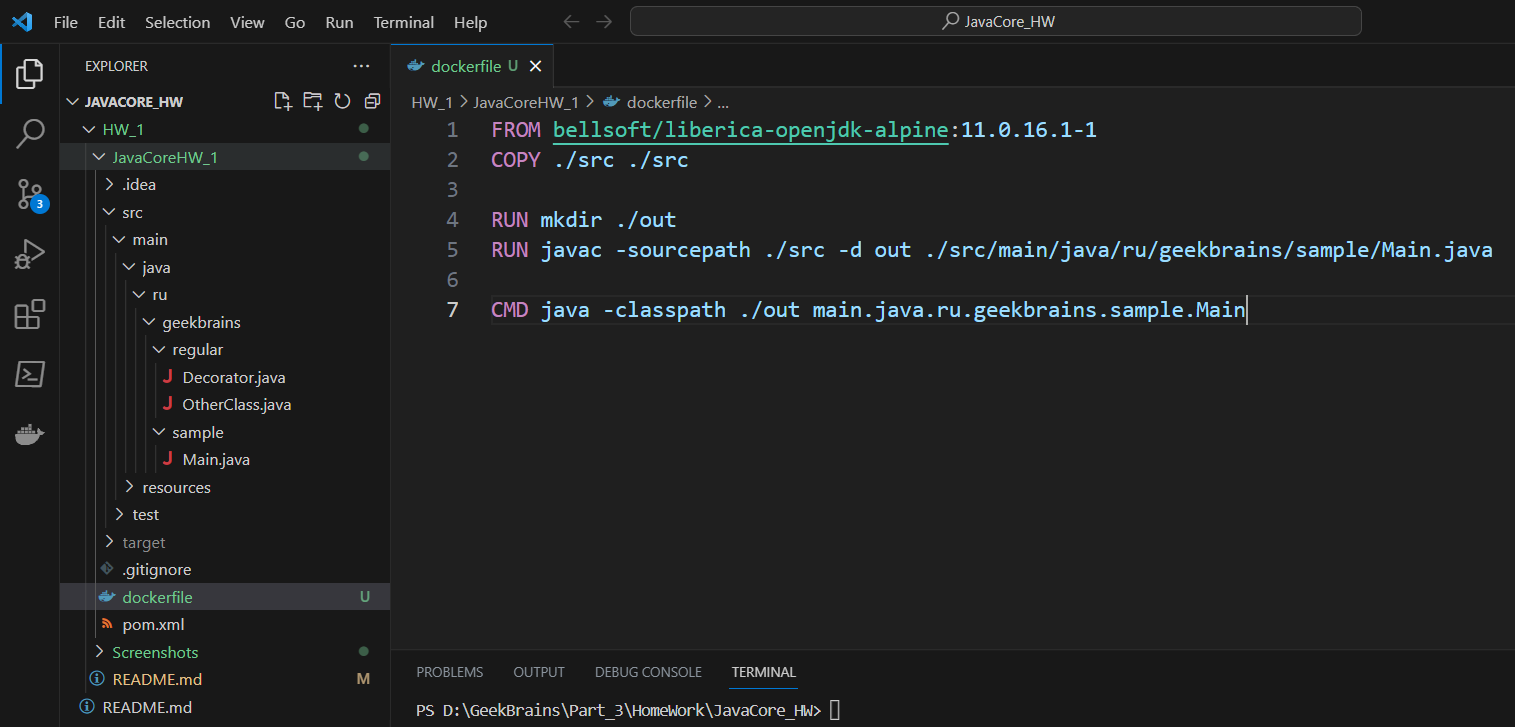
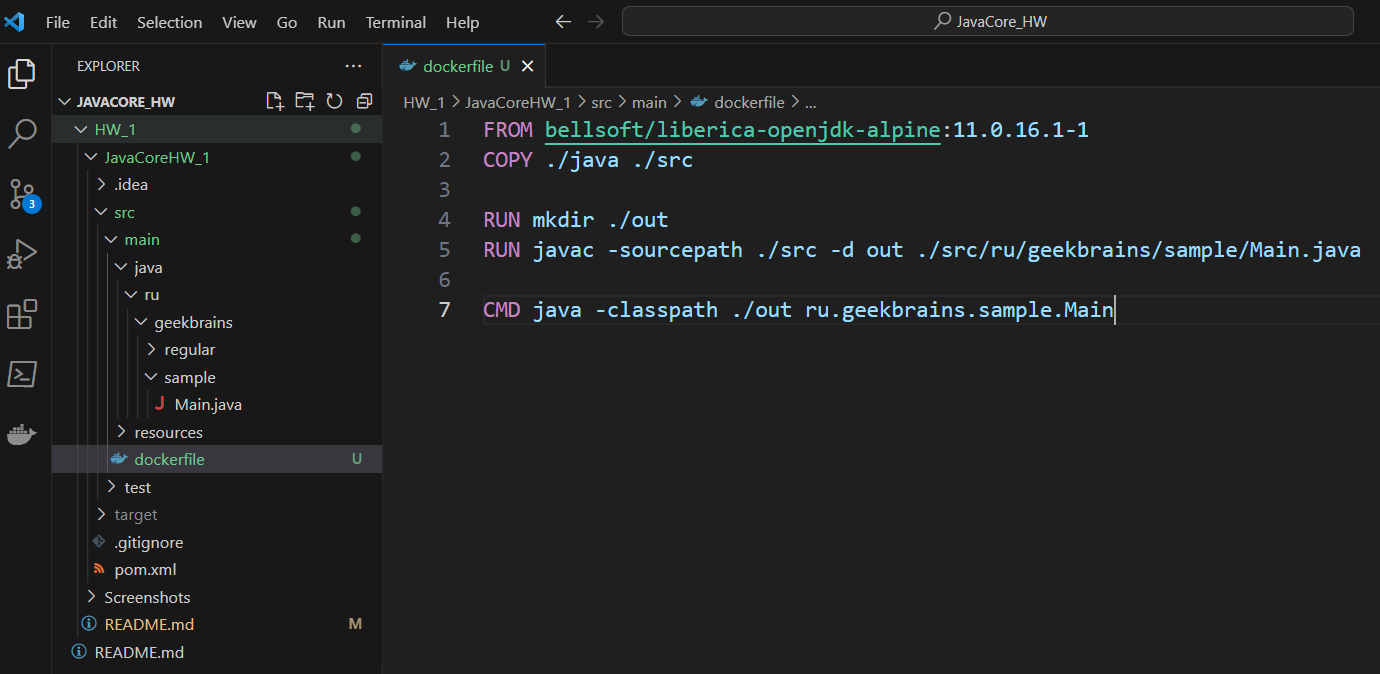
HomeWork compleated

diff --git a/HW_1/README.md b/HW_1/README.md
@@ -35,12 +35,12 @@
 
 ```docker 
 FROM bellsoft/liberica-openjdk-alpine:11.0.16.1-1
-COPY ./src ./src
+COPY ./java ./src
 
 RUN mkdir ./out
-RUN javac -sourcepath ./src -d out ./src/main/java/ru/geekbrains/sample/Main.java
+RUN javac -sourcepath ./src -d out ./src/ru/geekbrains/sample/Main.java
 
-CMD java -classpath ./out main.java.ru.geekbrains.sample.Main
+CMD java -classpath ./out ru.geekbrains.sample.Main
 ```
 
 ![screenshot](Screenshots/img_4.PNG)
@@ -53,6 +53,8 @@ docker run -rm hw1:latest
 ```
 ![screenshot](Screenshots/img_5.PNG)
 ![screenshot](Screenshots/img_6.PNG)
+![screenshot](Screenshots/img_7.PNG)
+
 
 
 
